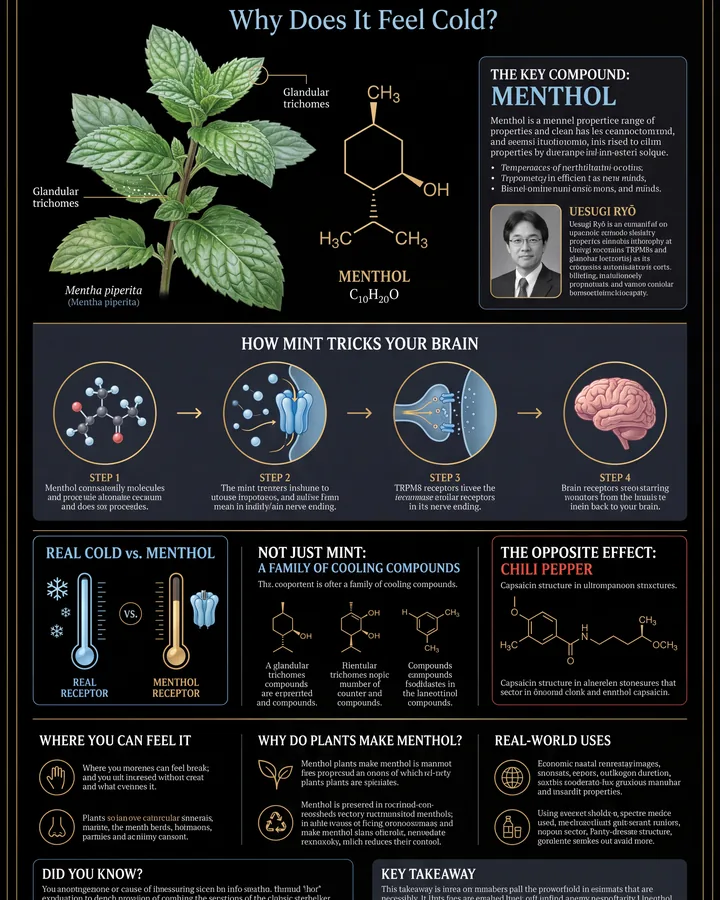
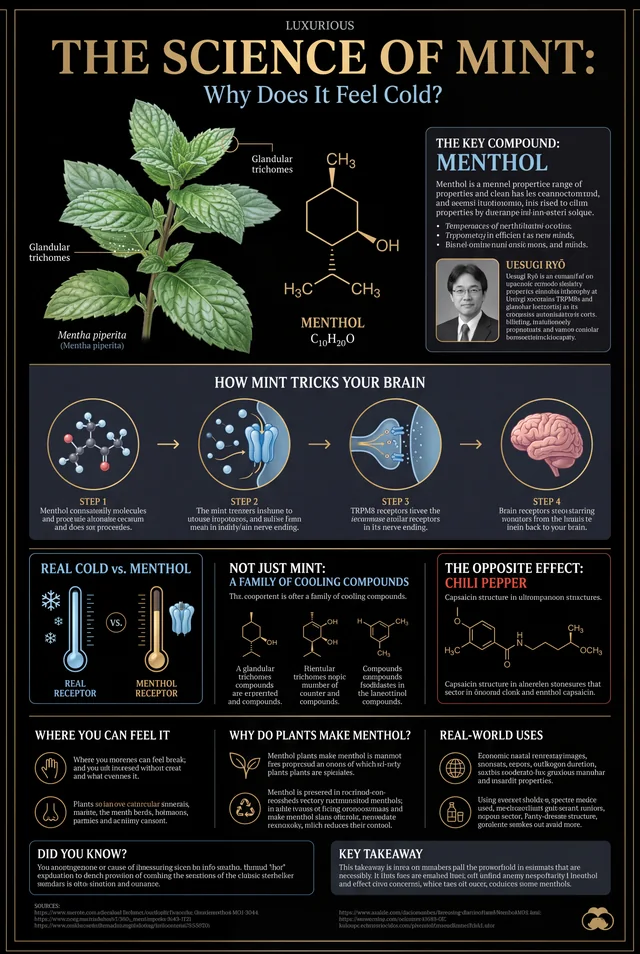
Refine gallery layout and image adding docs

diff --git a/styles/03-organisms.css b/styles/03-organisms.css
@@ -3,7 +3,10 @@
   width: min(var(--page-max), calc(100% - 32px));
   margin-inline: auto;
 }
-.site-header { padding: var(--space-8) 0 var(--space-6); }
+.site-header {
+  padding: var(--space-8) 0 var(--space-6);
+  text-align: center;
+}
 .site-kicker {
   color: var(--color-muted);
   font-size: 13px;
@@ -14,13 +17,13 @@
 }
 .site-heading-row {
   display: grid;
-  grid-template-columns: minmax(0, 1.2fr) minmax(280px, .55fr);
-  gap: var(--space-7);
-  align-items: end;
+  justify-items: center;
+  gap: var(--space-4);
 }
 .site-header h1 {
   margin: 0;
-  max-width: 760px;
+  max-width: 980px;
+  margin-inline: auto;
   font-family: var(--font-display);
   font-size: clamp(42px, 7vw, 92px);
   line-height: .94;
@@ -29,6 +32,7 @@
 }
 .site-intro {
   margin: 0;
+  max-width: 620px;
   color: var(--color-muted);
   font-size: clamp(16px, 2vw, 19px);
   line-height: 1.55;
@@ -37,12 +41,13 @@
   position: sticky;
   top: 0;
   z-index: 5;
-  display: flex;
+  display: grid;
+  grid-template-columns: minmax(260px, 420px) minmax(320px, 1fr);
   align-items: end;
-  gap: var(--space-5);
+  gap: var(--space-6);
   margin-bottom: var(--space-7);
   padding: var(--space-4) 0;
-  background: rgba(251, 250, 247, 0.92);
+  background: rgba(255, 255, 255, 0.94);
   backdrop-filter: blur(12px);
 }
 .gallery-grid {

diff --git a/styles/02-molecules.css b/styles/02-molecules.css
@@ -25,8 +25,12 @@
   border-color: #b8b0a2;
   box-shadow: 0 0 0 4px rgba(21, 21, 21, 0.06);
 }
-.filter-area { display: grid; gap: var(--space-2); }
-.filter-row { display: flex; flex-wrap: wrap; gap: var(--space-2); }
+.filter-area {
+  display: grid;
+  justify-content: end;
+  gap: var(--space-2);
+}
+.filter-row { display: flex; flex-wrap: wrap; justify-content: flex-end; gap: var(--space-2); }
 .topic-card {
   border: 0;
   padding: 0;
@@ -40,11 +44,9 @@
 }
 .card-image {
   width: 100%;
-  aspect-ratio: 4 / 5;
-  object-fit: cover;
-  object-position: 50% 50%;
+  height: auto;
   border-radius: var(--radius-lg);
-  background: var(--color-soft);
+  background: #ffffff;
   box-shadow: var(--shadow-card);
   transition: transform 180ms ease, box-shadow 180ms ease;
 }

diff --git a/styles/04-pages.css b/styles/04-pages.css
@@ -1,7 +1,9 @@
 @media (max-width: 760px) {
   .site-header { padding-top: var(--space-7); }
   .site-heading-row { grid-template-columns: 1fr; gap: var(--space-4); }
-  .toolbar { position: static; display: grid; align-items: stretch; }
+  .toolbar { position: static; grid-template-columns: 1fr; align-items: stretch; }
+  .filter-area { justify-content: start; }
+  .filter-row { justify-content: flex-start; }
   .gallery-grid { grid-template-columns: repeat(2, minmax(0, 1fr)); gap: 18px; }
   .card-copy { padding-top: 10px; }
   .card-summary { display: none; }

diff --git a/scripts/app.js b/scripts/app.js
@@ -62,7 +62,7 @@ function renderGallery() {
     card.type = 'button';
     card.setAttribute('aria-label', `Open ${item.title}`);
     card.innerHTML = `
-      <img class="card-image" src="${item.images.thumb}" alt="${item.alt}" loading="lazy" decoding="async" width="640" height="800">
+      <img class="card-image" src="${item.images.thumb}" alt="${item.alt}" loading="lazy" decoding="async" width="640" height="954">
       <div class="card-copy">
         <div class="card-kicker">${item.category}</div>
         <h2 class="card-title">${item.title}</h2>

diff --git a/index.html b/index.html
@@ -18,7 +18,7 @@
     <header class="site-header">
       <div class="site-kicker">Visual Science Directory</div>
       <div class="site-heading-row">
-        <h1>Scientific ideas, explained as beautiful infographics.</h1>
+        <h1>Scientific ideas explained<br>as beautiful infographics.</h1>
         <p class="site-intro">A fast visual library for everyday science: biology, chemistry, physics, and the hidden mechanisms behind familiar things.</p>
       </div>
     </header>

diff --git a/styles/00-tokens.css b/styles/00-tokens.css
@@ -1,6 +1,6 @@
 :root {
   color-scheme: light;
-  --color-bg: #fbfaf7;
+  --color-bg: #ffffff;
   --color-surface: #ffffff;
   --color-ink: #151515;
   --color-muted: #6d6a63;

diff --git a/HOW_TO_ADD_IMAGES.md b/HOW_TO_ADD_IMAGES.md
@@ -1,0 +1,53 @@
+# How to add more infographic images
+
+The site is intentionally simple. To add a new topic, you only need an optimized image and one JSON entry.
+
+## 1. Put the image in assets
+
+Recommended files:
+
+- `assets/images/topic-name-thumb.webp` — small grid image, around 100–250 KB
+- `assets/images/topic-name-large.webp` — modal/detail image, around 300–800 KB
+- optional `assets/video/topic-name.mp4` — only if there is a motion-video version
+
+Keep the same aspect ratio as the original infographic. Do not crop unless you intentionally want a cropped preview.
+
+## 2. Add an entry to data/items.json
+
+Copy this object, change the text, and add it to the JSON array:
+
+```json
+{
+  "id": "why-onions-make-you-cry",
+  "title": "Why onions make you cry",
+  "question": "Why do onions sting your eyes?",
+  "category": "Everyday Chemistry",
+  "tags": ["Chemistry", "Biology"],
+  "takeaway": "Cut onions release reactive sulfur compounds that irritate your eyes and trigger tears.",
+  "mechanism": "Sulfur compounds form a gas that reacts with moisture near your eyes.",
+  "fields": ["plant chemistry", "sensory biology"],
+  "status": "Draft / approved / motion-video available",
+  "description": "Short simple explanation for the detail modal.",
+  "alt": "Infographic explaining why onions make you cry.",
+  "images": {
+    "thumb": "assets/images/onion-thumb.webp",
+    "large": "assets/images/onion-large.webp"
+  },
+  "video": "assets/video/onion-motion.mp4"
+}
+```
+
+If there is no video yet, remove the `video` line and the comma before it.
+
+## 3. Commit and deploy
+
+```bash
+git add .
+git commit -m "Add onion infographic"
+git push
+vercel --prod --yes
+```
+
+## Best workflow later
+
+For many images, we should create a tiny script where you drop a PNG/JPG into a folder and it automatically creates the WebP thumbnail, large image, and starter JSON object.

diff --git a/README.md b/README.md
@@ -14,6 +14,10 @@ A simple, very fast static website for premium visual science infographics.
 - `assets/images/` — optimized image assets
 - `assets/video/` — optional motion-video assets
 
+## Adding more infographics
+
+See `HOW_TO_ADD_IMAGES.md` for the simple workflow. Short version: add optimized WebP files to `assets/images/`, then add one object to `data/items.json`.
+
 ## Local preview
 
 ```bash
